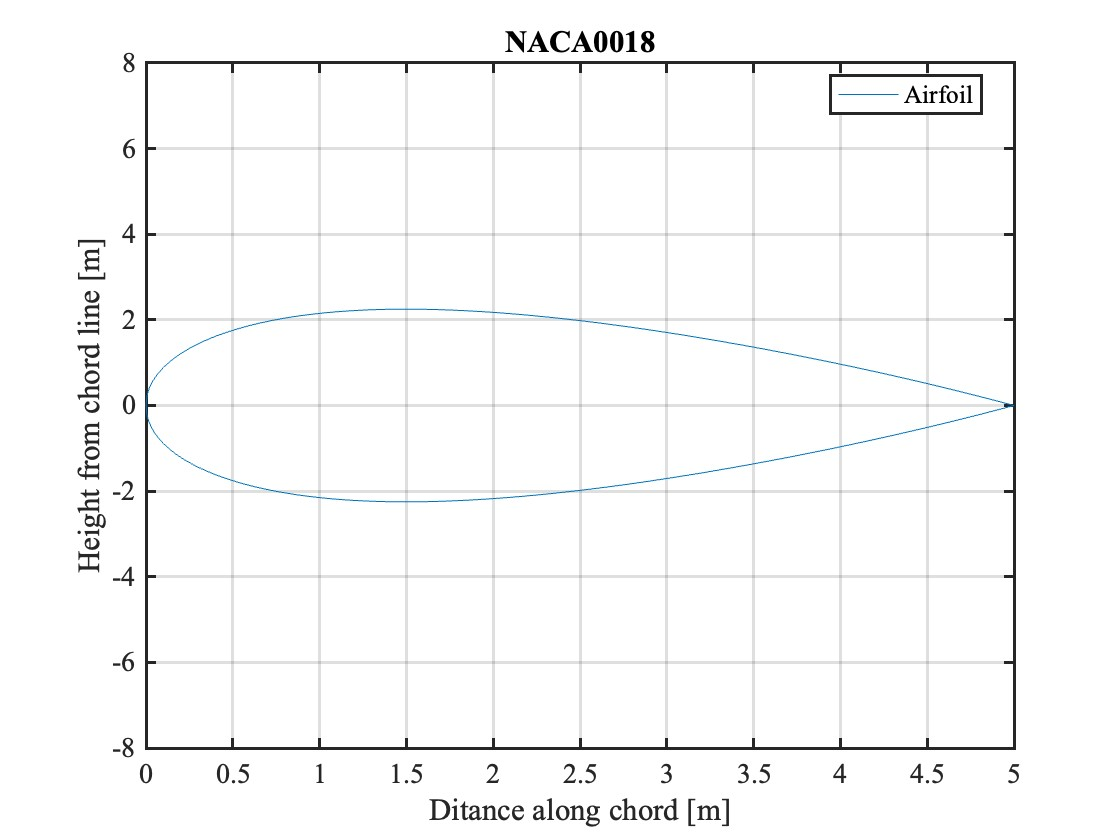
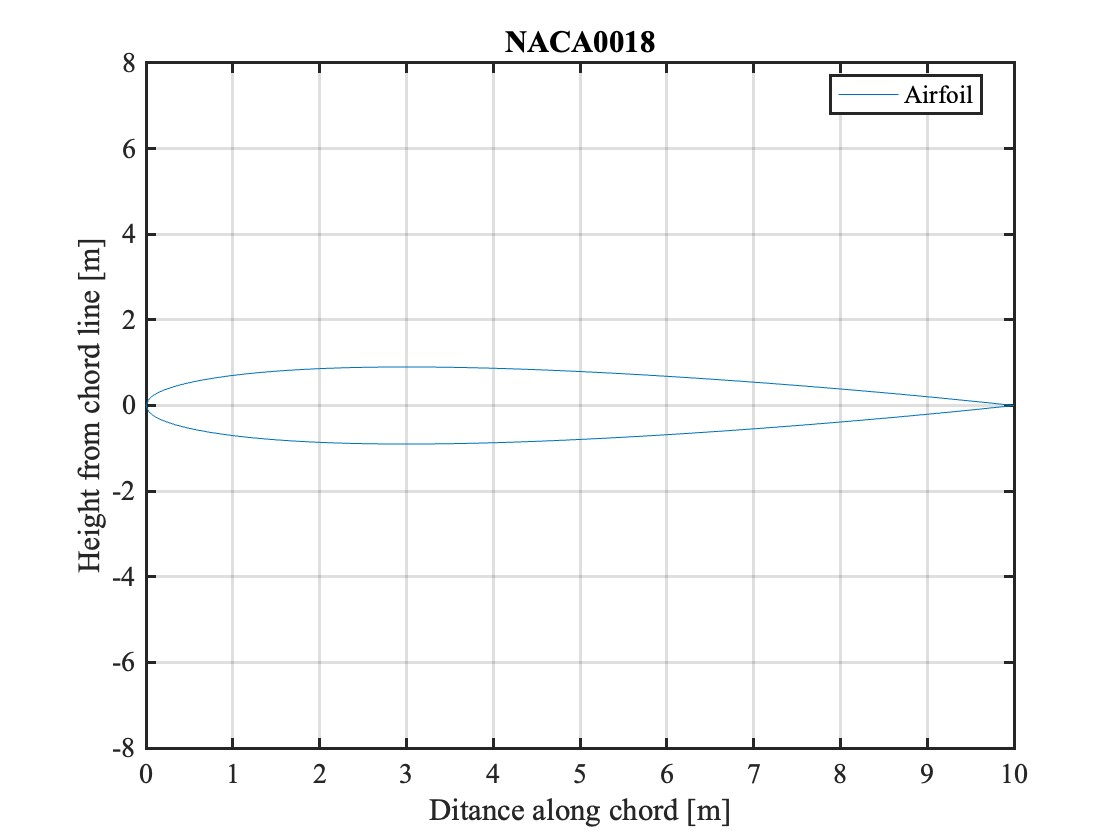
debugging

diff --git a/mainDriver.m b/mainDriver.m
@@ -13,21 +13,21 @@ clc;
 % -----------------------------------------
 
 
-% % user input and parsing
-% c = input('enter chord length: ');
-% Naca = input('1st Digit, 2nd Digit,3rd and 4th: ','s');
-% panels = input('Numbers of panels: ');
-% C = strsplit(Naca,',');
-% airfoil = strcat(C{1},C{2},C{3});
-% Parts = str2double(C);
-% 
-% % defining variables to pass into function
-% m = ((Parts(1)/100)*c); 
-% p = ((Parts(2)/10));
-% t = ((Parts(3)/100)*c);
-% 
-% % function call to generate airfoil plot 
-% [XB,YB] = airfoilGen(m,p,t,c,panels,airfoil,1);
+% user input and parsing
+c = input('enter chord length: ');
+Naca = input('1st Digit, 2nd Digit,3rd and 4th: ','s');
+panels = input('Numbers of panels: ');
+C = strsplit(Naca,',');
+airfoil = strcat(C{1},C{2},C{3});
+Parts = str2double(C);
+
+% defining variables to pass into function
+m = ((Parts(1)/100)); 
+p = ((Parts(2)/10));
+t = ((Parts(3)/100));
+
+% function call to generate airfoil plot 
+[XB,YB] = airfoilGen(m,p,t,c,panels,airfoil,1);
 
 % -----------------------------------------
 %% PART 1 TASK 2
@@ -35,47 +35,47 @@ clc;
 
 % -------------------Deliverable 1----------------------
 % Params for NACA0012 at 5 degrees angle of attack
-c2 = 5; 
-m2 = 0;
-p2 = 0; 
-t2 =.12 * c2; 
-alpha = 5; 
-
-% length of numPanels to test
-numPanels = 10:1:500;
-cl = zeros(length(numPanels),1);
-
-% looping through panels and getting corresponding cl 
-for i = 1: length(numPanels)
-
-    % function call to airfoilGen with NACA0012 info
-[XB2,YB2] = airfoilGen(m2,p2,t2,c2,numPanels(i),'0012',0);
-
-% function call to vortex panel to 
-[cl(i)] = Vortex_Panel(XB2,YB2,alpha);
-end
-
-% max CL from cl vs. num panels
-CL_Max = max(cl);
-Clstr = strcat('Cl = ',num2str(CL_Max));
-
-% Loop to get error and determin number of panels to achieve cl within 1
-% percent
-for i = 1: length(cl)
-err(i) = (abs(CL_Max - cl(i)) / CL_Max)*100;
-end
-
-[~,numPanelsForExact] = find(err<1,1);
-
-
-% plotting cl vs. number of panels 
-figure();
-plot(numPanels,cl);
-xlabel('Number of Panels');
-ylabel('Predicted Coeff. Lift');
-yline(CL_Max,'--',{'Cl Conv.',Clstr},LineWidth=1.5,LabelHorizontalAlignment='left');
-ylim([.785,.87]);
-title('Predicted Cl vs. Number of Panels');
+% c2 = 5; 
+% m2 = 0;
+% p2 = 0; 
+% t2 =.12*c2; 
+% alpha = 5; 
+% 
+% % length of numPanels to test
+% numPanels = 10:1:200;
+% cl = zeros(length(numPanels),1);
+% 
+% % looping through panels and getting corresponding cl 
+% for i = 1: length(numPanels)
+% 
+%     % function call to airfoilGen with NACA0012 info
+% [XB2,YB2] = airfoilGen(m2,p2,t2,c2,numPanels(i),'0012',0);
+% 
+% % function call to vortex panel to 
+% [cl(i)] = Vortex_Panel(XB2,YB2,alpha);
+% end
+% 
+% % max CL from cl vs. num panels
+% CL_Max = max(cl);
+% Clstr = strcat('Cl = ',num2str(CL_Max));
+% 
+% % Loop to get error and determin number of panels to achieve cl within 1
+% % percent
+% for i = 1: length(cl)
+% err(i) = (abs(CL_Max - cl(i)) / CL_Max)*100;
+% end
+% 
+% [~,numPanelsForExact] = find(err<1,1);
+% 
+% 
+% % plotting cl vs. number of panels 
+% figure();
+% plot(numPanels,cl);
+% xlabel('Number of Panels');
+% ylabel('Predicted Coeff. Lift');
+% yline(CL_Max,'--',{'Cl Conv.',Clstr},LineWidth=1.5,LabelHorizontalAlignment='left');
+% ylim([.785,.87]);
+% title('Predicted Cl vs. Number of Panels');
 
 % -----------------------------------------
 
